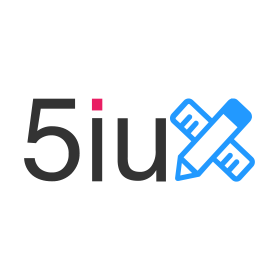
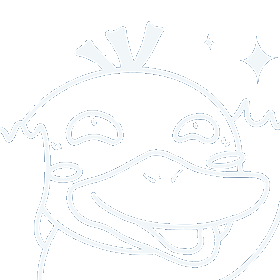
修改导航页面内容

diff --git a/index.html b/index.html
@@ -4,7 +4,7 @@
 <head>
     <meta charset="UTF-8">
     <meta name="viewport" content="width=device-width, user-scalable=no, initial-scale=1.0, maximum-scale=1.0, minimum-scale=1.0">
-    <title>5IUX搜索</title>
+    <title>众里寻他千百度</title>
     <link rel="apple-touch-icon-precomposed" href="280.png" />
     <meta name="msapplication-TileImage" content="280.png" />
     <link rel="shortcut icon" href="32.png" />
@@ -62,7 +62,7 @@
         }
     </style>
     <nav class="navbar navbar-expand-lg navbar-light fixed-top" style="position: absolute; z-index: 10000;">
-        <a class="navbar-brand" href="/"><img src="https://cdn.jsdelivr.net/gh/5iux/uploads/pic/20200424logo4.svg" height="35" style=" margin-left: -40px;" alt=""></a>
+        <a class="navbar-brand" href="/"><img src="https://images.zhangyuanqian.top/uPic/8b3e5a17f6855360ee7855843c1e41c5.png" height="35" style=" margin-left: 140px;" alt=""></a>
         <button class="navbar-toggler collapsed" style="border: none; outline: none;" type="button" data-toggle="collapse" data-target="#navbarsExample05" aria-controls="navbarsExample05" aria-expanded="false" aria-label="Toggle navigation">
             <svg xmlns="http://www.w3.org/2000/svg" viewBox="0 0 16 16" class="bi bi-list-nested" fill="currentColor" id="list-nested">
                 <path fill-rule="evenodd" d="M4.5 11.5A.5.5 0 015 11h10a.5.5 0 010 1H5a.5.5 0 01-.5-.5zm-2-4A.5.5 0 013 7h10a.5.5 0 010 1H3a.5.5 0 01-.5-.5zm-2-4A.5.5 0 011 3h10a.5.5 0 010 1H1a.5.5 0 01-.5-.5z"></path>
@@ -73,21 +73,12 @@
                 </svg><span>
         </button>
         <div class="collapse navbar-collapse" id="navbarsExample05">
-            <ul class="navbar-nav mr-auto">
+            <ul class="navbar-nav mr-auto" id="rainbow">
                 <li class="nav-item active">
                     <a class="nav-link" href="https://blog.5iux.cn" target="_blant">博客</a>
                 </li>
                 <li class="nav-item">
-                    <a class="nav-link" href="https://dyartstyle.com" target="_blant">DY点线面</a>
-                </li>
-                <li class="nav-item">
                     <a class="nav-link" href="https://hao.5iux.cn/" target="_blant">设计导航</a>
-                </li>
-                <li class="nav-item">
-                    <a class="nav-link" href="https://wat.dyartstyle.com" target="_blant">吾爱淘</a>
-                </li>
-                <li class="nav-item">
-                    <a class="nav-link" href="https://github.com/5iux/5iux.github.io" target="_blant">Github</a>
                 </li>
                 <li class="nav-item">
                     <a class="nav-link" href="https://blog.5iux.cn/about" target="_blant">About</a>
@@ -136,7 +127,7 @@
                         <li><input hidden="" type="radio" name="type" id="type-google" value="https://www.google.com.hk/search?hl=zh-CN&q=" data-placeholder="谷歌搜索"><label for="type-google"><span style="color:#3B83FA">G</span><span style="color:#F3442C">o</span><span style="color:#FFC300">o</span><span style="color:#4696F8">g</span><span style="color:#2CAB4E">l</span><span style="color:#F54231">e</span></label></li>
                         <li><input hidden="" type="radio" name="type" id="type-cupfox" value="https://www.cupfox.com/search?key=" data-placeholder="电影、剧集、综艺、动漫"><label for="type-cupfox"><span style="color:#b1870b">影视</span></label></li>
                         <li><input hidden="" type="radio" name="type" id="type-weibo" value="https://s.weibo.com/weibo/" data-placeholder="微博搜索"><label for="type-weibo"><span style="color:#ff5722">微博</span></label></li>
-                        <li><input hidden="" type="radio" name="type" id="type-quan" value="https://wat.dyartstyle.com/index.php?r=l&hot=1&kw=" data-placeholder="搜索淘宝优惠券"><label for="type-quan"><span style="color:#ff5722">搜券</span></label></li>
+                        <li><input hidden="" type="radio" name="type" id="type-quan" value="https://search.smzdm.com/?v=b&s=" data-placeholder="搜索商品价格情况"><label for="type-quan"><span style="color:#ff5722">值得买</span></label></li>
                     </ul>
                 </div>
             </div>
@@ -416,15 +407,8 @@
         </ul>
     </div>
     <!--版权信息开始-->
-    <p class="mt-5 mb-3 text-muted text-center">©2021 by <a href="https://blog.5iux.cn/">5iux</a>. All rights reserved.</p>
-    <!--
-作者:D.Young
-主页：https://blog.5iux.cn/
-github：https://github.com/5iux/5iux.github.io
-日期：2021-08-02
-版权所有，请勿删除
--->
-    <!--版权信息结束-->
+    <p class="mt-5 mb-3 text-muted text-center">©2021 by <a href="https://www.zhangyuanqian.top/">iSaddam</a>. All rights reserved.</p>
+
     <script>
     eval(function(e, t, a, c, i, n) {
         if (i = function(e) {

diff --git a/style.css b/style.css
@@ -120,3 +120,13 @@ svg.icon { width: 14px; height: 14px; margin: 0 5px 0 8px; vertical-align: -0.15
 ::-webkit-scrollbar-corner {
     background: #ddd;
 }
+
+#rainbow {
+    color: #955494;
+    background: linear-gradient(92.05deg, #bca1f7 12.09%, #e577b4 42.58%, #ff7170 84.96%);
+    -webkit-background-clip: text;
+    background-clip: text;
+    -webkit-text-fill-color: transparent;
+    box-decoration-break: clone;
+    -webkit-box-decoration-break: clone;
+}
